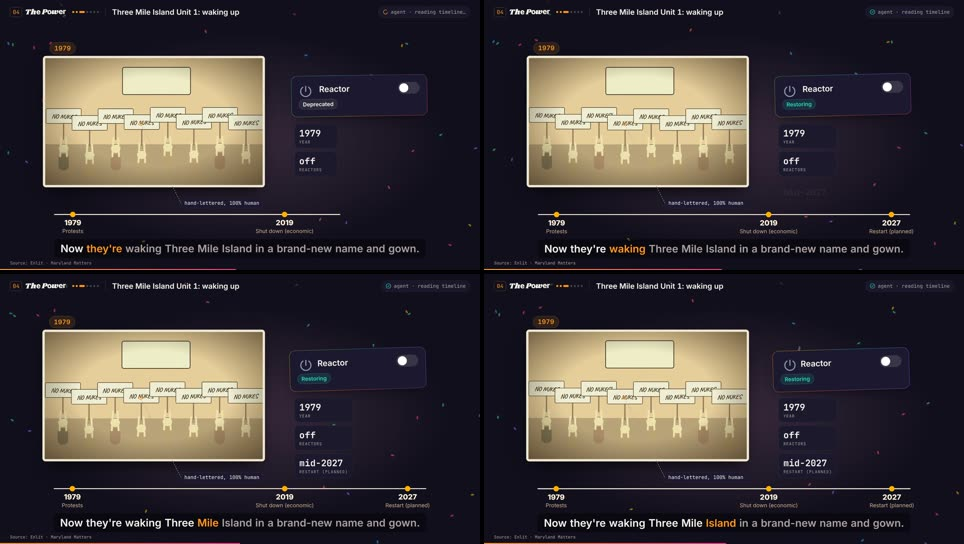
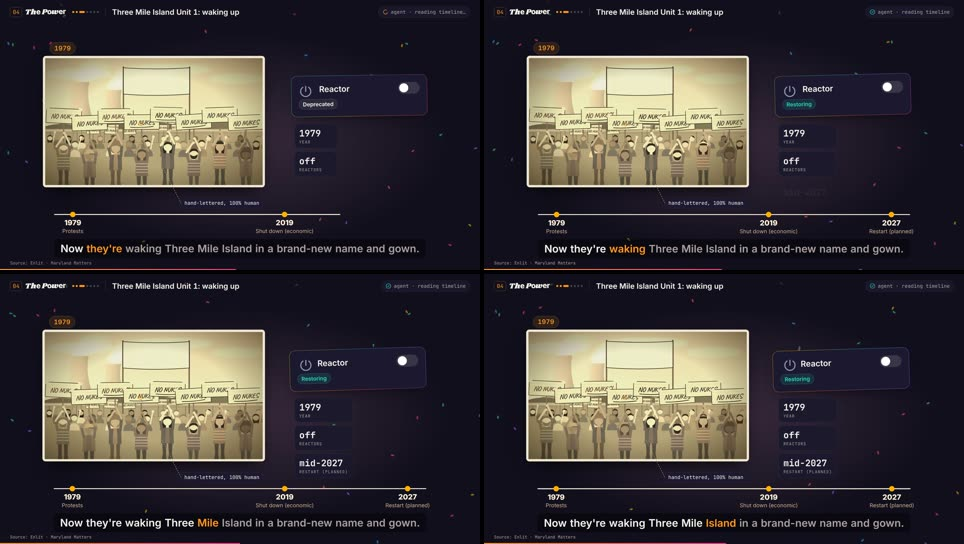
M5: Verse 3 v2 rendered (more detailed 1979 crowd); v1 archived
Claude-Session: https://claude.ai/code/session_01U1tVYjqjSmd5JP5bTWdgUW

diff --git a/log/renders.md b/log/renders.md
@@ -85,3 +85,8 @@ Every render: timestamp, shot ID, composition, props, commit hash, output, conta
   - Verse 2: the "exhaust" leader crossed the whole turbine grid to a fan, now short and to a plume; "no answer" sat on the "Permit office" title, now points at the sign (the cursor knocks on the door icon); the lawyers' briefcases overlapped the last house.
   - Verse 3: the peace sign on the 1979 banner drew no circle (an SVG arc with equal ends draws nothing; `PeaceToPower` now keeps a 1° gap) and sat off-center; the "hand-lettered" leader crossed the banner (label now under the photo); the timeline labels touched the caption bar (moved up 20 px); S36's cord ran behind the stat tiles and began in midair (now enters from the frame edge, below the tiles).
 - **Contact sheets:** `review/S23.jpg`–`S27.jpg`, `review/S32.jpg`–`S38.jpg` (with S33a, S36a).
+
+## 2026-10-30T08:33 — M5 final: Verse 3 v2 (S32–S38)
+
+- **Change:** the 1979 crowd photo redrawn in more detail (human note). Still faceless flat pictograms per the brief, with the detail in the scene and silhouettes: overcast sky, two generic cooling towers with drifting steam across the river, a tree line, a chain-link fence, two rows of people behind the front line (placards, raised fists), the peace banner as a bedsheet on two poles; the front line gets 1970s hair (long, afro, beard, headband, cap), open jackets, fringed vests, striped knits, flared jeans and cords, and cardboard signs with tape and marker lettering. S38's gray crowd is the same scene; its back rows' placards read "…ok, fine" too. `RallyGround`, `RallyBanner`, `Protester` in `components/illustrations.tsx`. **Commit:** 375b011.
+- **Output:** `renders/m5/06_verse3.mp4` (frames 3352–4293, 1080p, CRF 16); v1 moved to `archive/renders/m5/06_verse3_v1.mp4`. Sheets `review/S32.jpg`–`S38.jpg` regenerated. Sent as a CRF 21 review copy (upload limit).

diff --git a/log/production_log.md b/log/production_log.md
@@ -189,3 +189,7 @@ Append-only. One entry per action: timestamp, step (shot ID where relevant), wha
 
 - Full-res still passes, fixes and renders listed in renders.md. Sent both for approval. Noted for the human: the cord in S05–S11 and S12 also begins in midair at the stage's left edge (approved sections, left as is unless asked).
 - Verse 3's master (38.8 MiB; the film grain is costly at CRF 16) exceeds the 30 MiB send limit, so the human got a CRF 21 review copy (10 MiB, scratch only). The master in `renders/m5/` is unchanged.
+
+## 2026-10-30T08:33 — M5: 1979 crowd redrawn; Verse 3 re-rendered
+
+- The human asked for more detail in the "no nukes" photo. Redrawn (details in renders.md); the figures stay faceless pictograms as the brief specifies.
